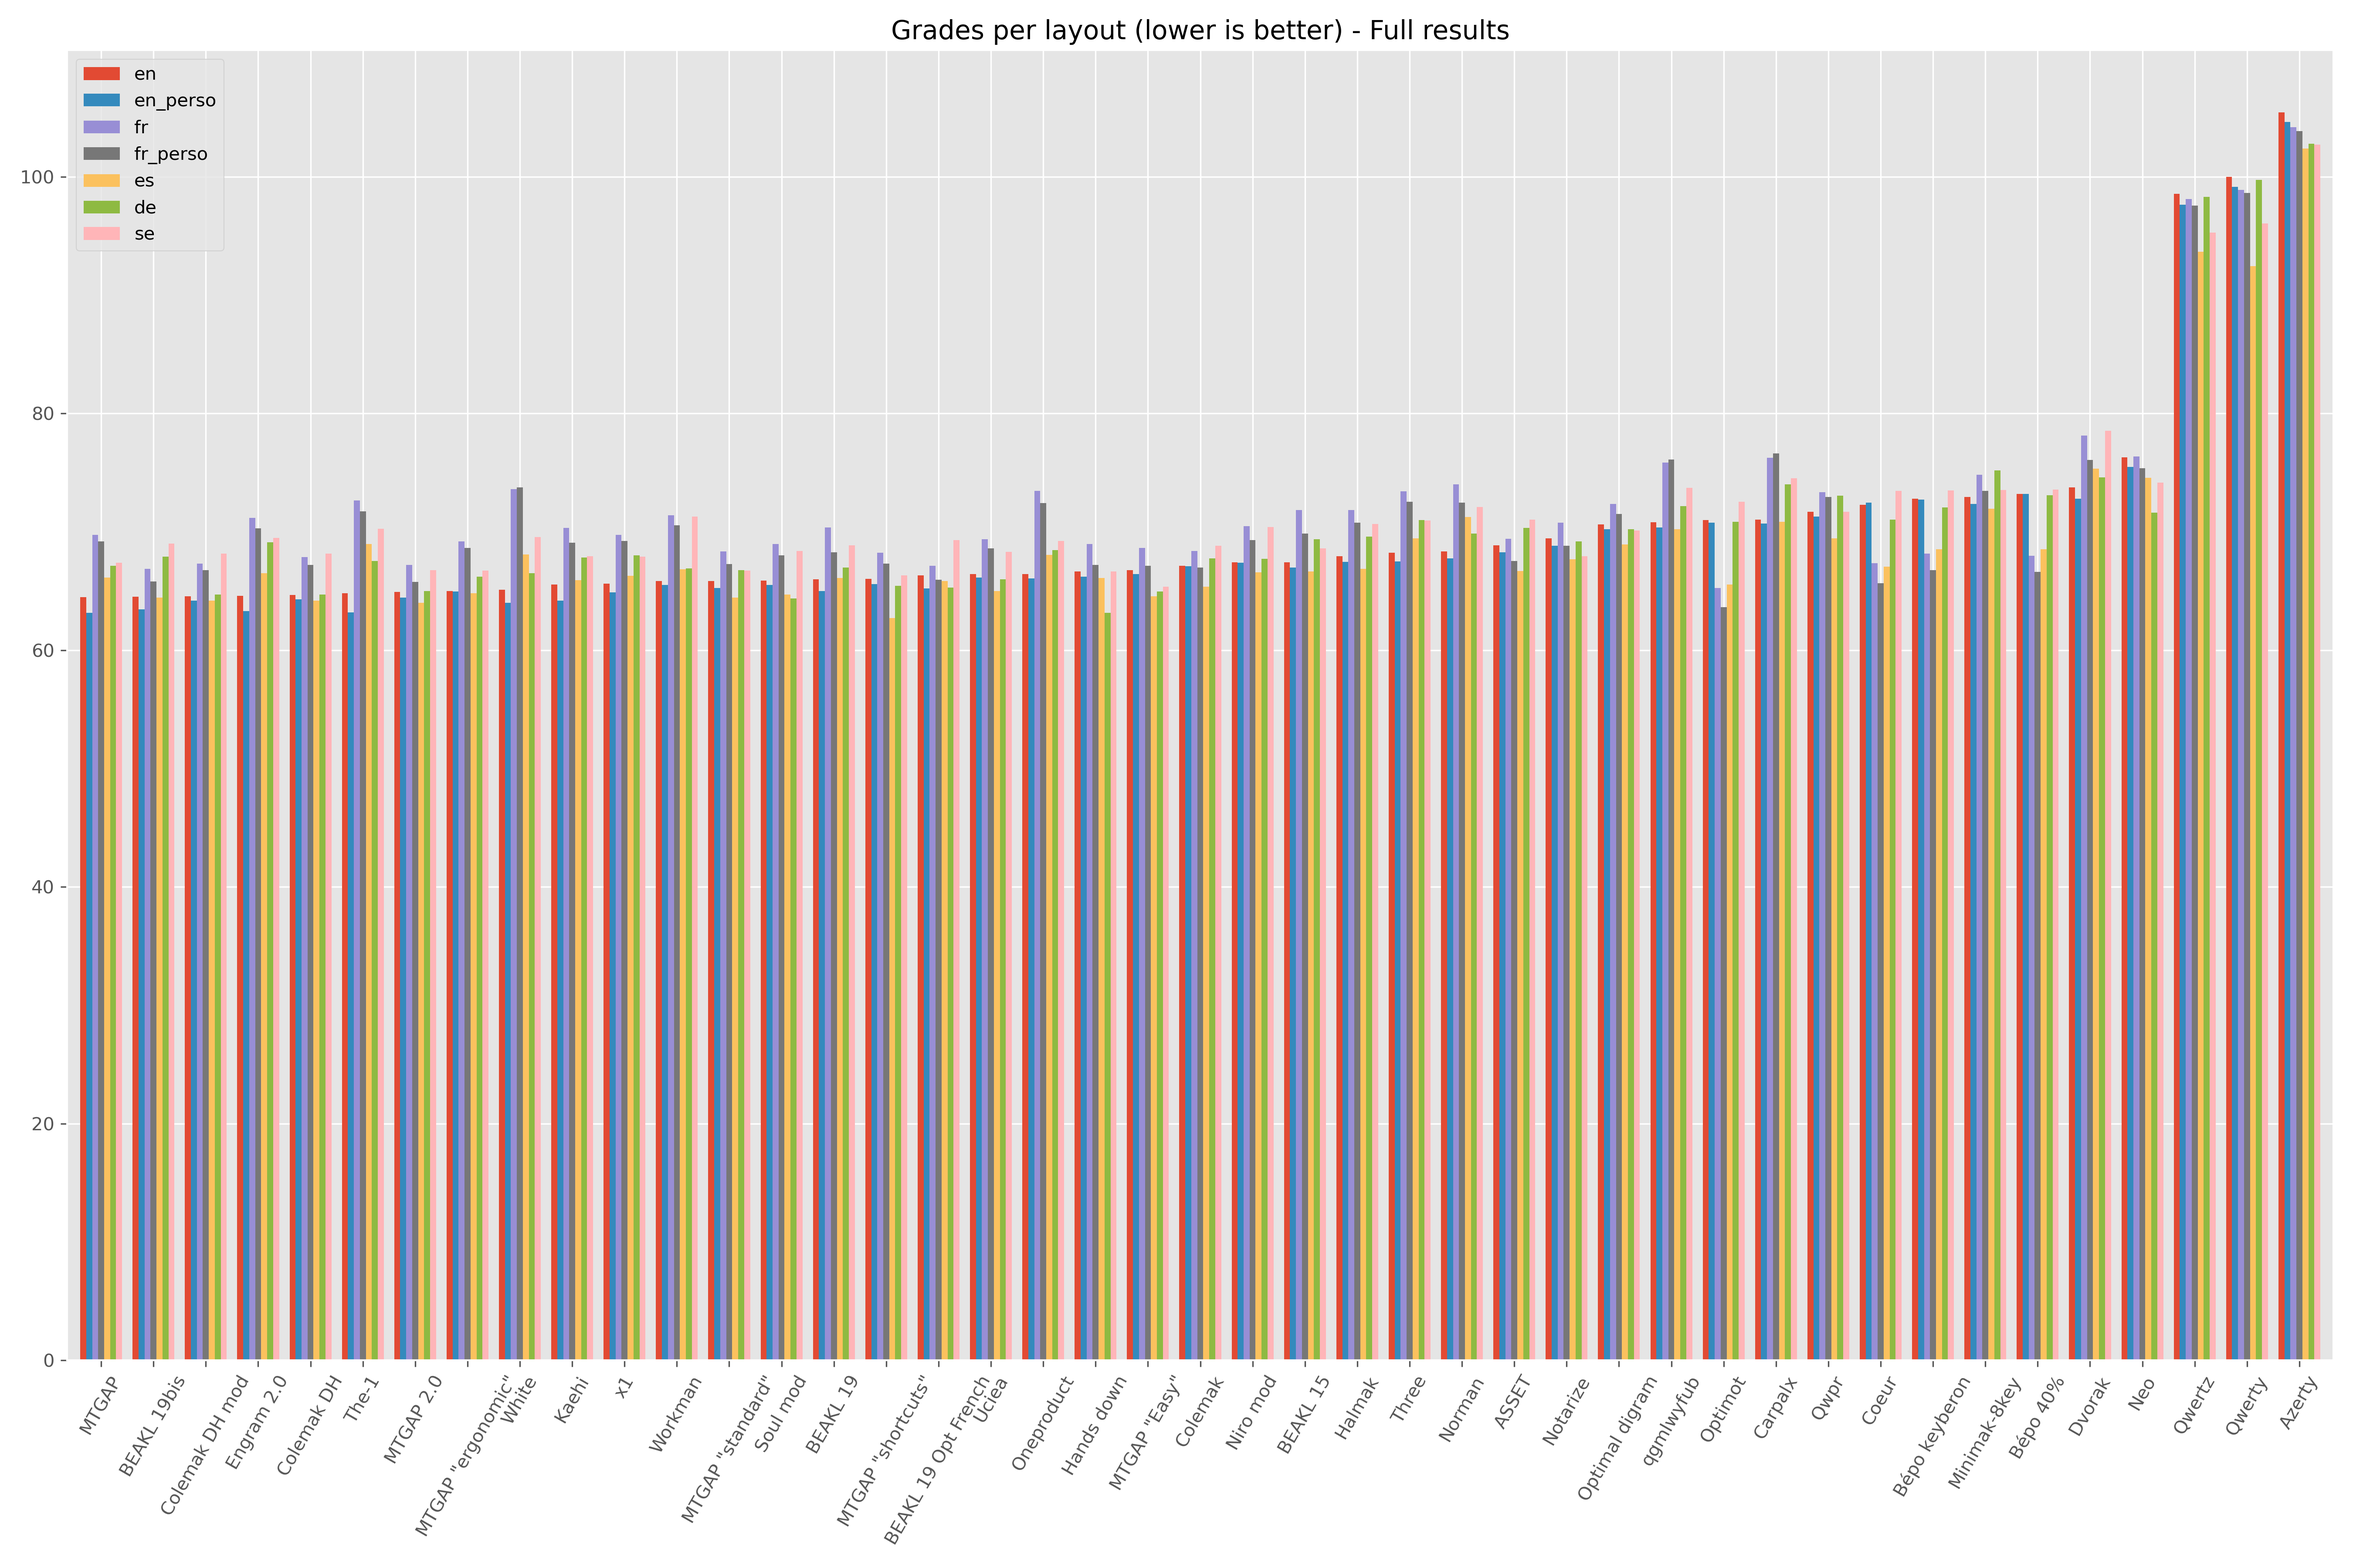
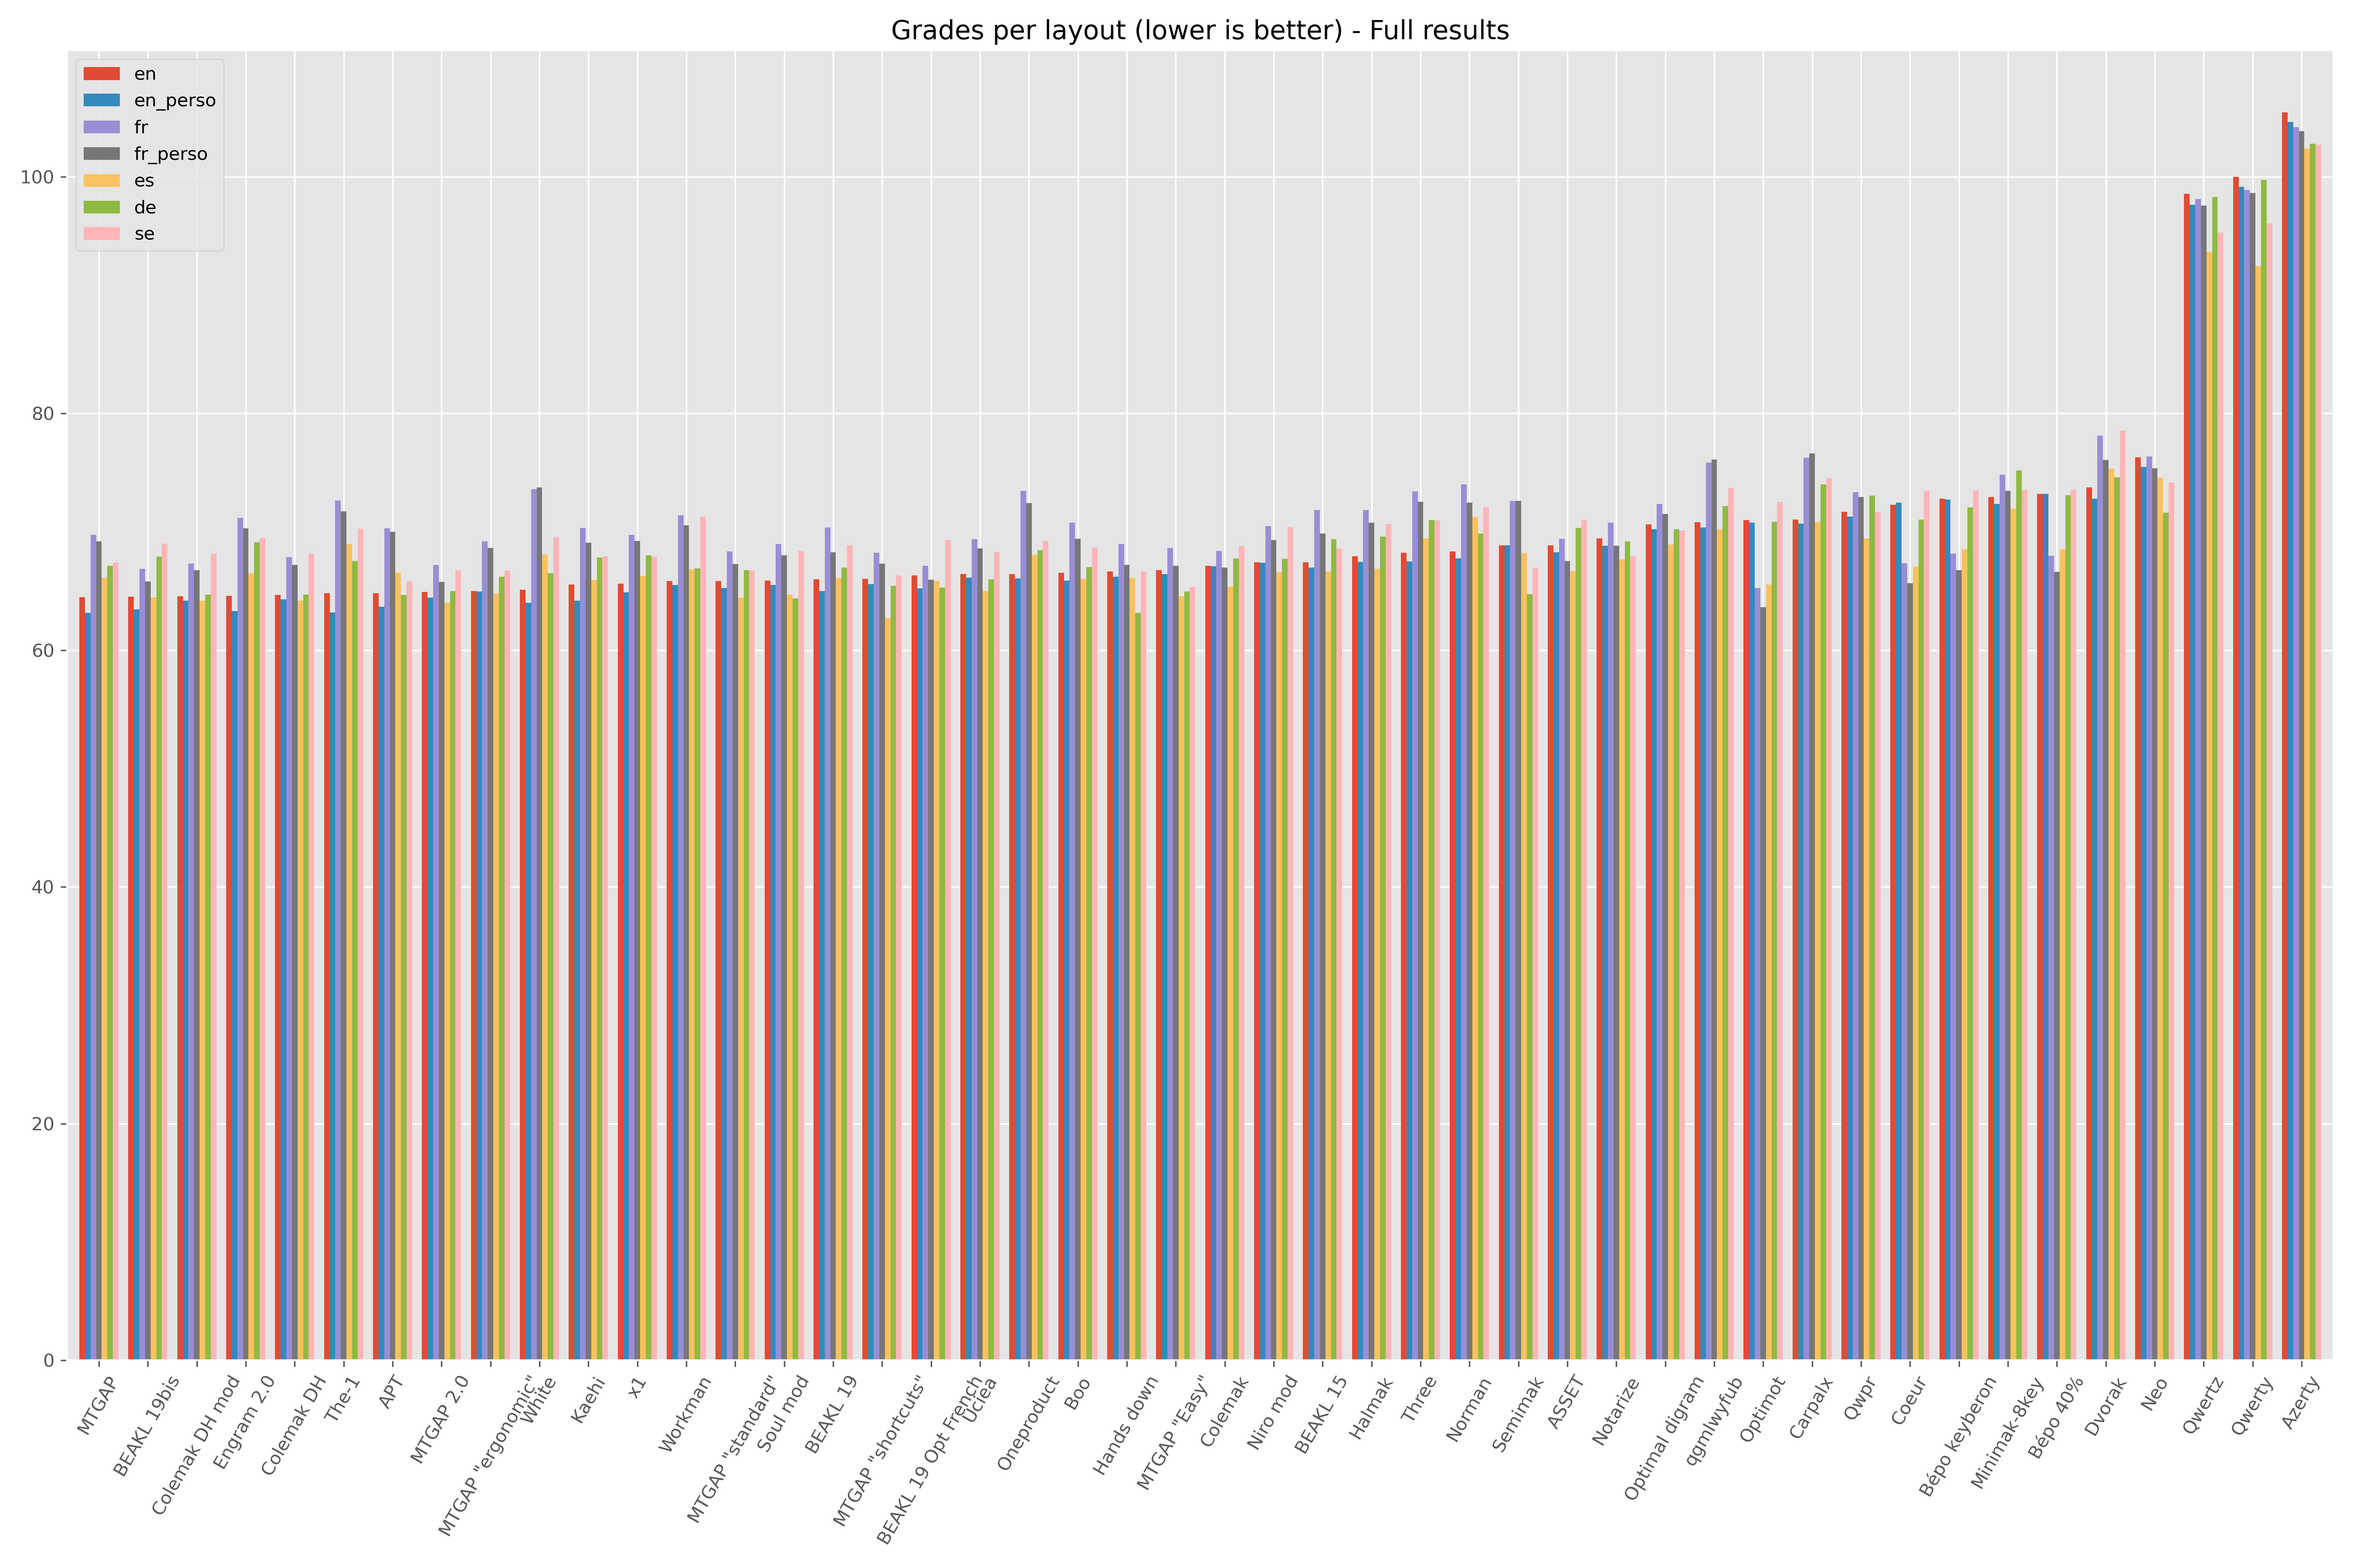
added layouts from #11

diff --git a/README.md b/README.md
@@ -224,6 +224,7 @@ Here is the complete results list. The layouts can be seen in `config.txt`.
 | [Engram 2.0](https://engram.dev/)                                                                                                             |   64.59 |         63.32 |  71.17 |        70.28 |   66.52 |  69.11 |   69.47 |
 | [Colemak DH](https://colemakmods.github.io/mod-dh/keyboards.html)                                                                             |   64.66 |         64.31 |  67.88 |        67.21 |   64.18 |  64.70 |   68.16 |
 | [The-1](https://docs.google.com/document/d/1yiCnIi1oagV1D8ZouMt-TRFRG8d6AfSBIwQkBvSflvY/edit)                                                 |   64.80 |         63.20 |  72.64 |        71.75 |   68.97 |  67.54 |   70.26 |
+| [APT](https://github.com/Apsu/APT)                                                                                                            |   64.81 |         63.69 |  70.29 |        70.02 |   66.56 |  64.68 |   65.86 |
 | [MTGAP 2.0](https://mathematicalmulticore.wordpress.com/2010/06/21/mtgaps-keyboard-layout-2-0/)                                               |   64.91 |         64.44 |  67.21 |        65.77 |   64.01 |  64.98 |   66.77 |
 | [MTGAP "ergonomic"](http://mtgap.bilfo.com/official_keyboard.html)                                                                            |   64.99 |         64.96 |  69.18 |        68.63 |   64.81 |  66.23 |   66.72 |
 | [White](https://github.com/mw8/white_keyboard_layout)                                                                                         |   65.10 |         64.00 |  73.60 |        73.76 |   68.09 |  66.50 |   69.55 |
@@ -237,6 +238,7 @@ Here is the complete results list. The layouts can be seen in `config.txt`.
 | [BEAKL 19 Opt French](https://www.reddit.com/r/ErgoMechKeyboards/comments/j1eopm/hands_down_layout_is_ready_for_daily_use/g7bjmr7/?context=3) |   66.32 |         65.23 |  67.12 |        65.96 |   65.85 |  65.31 |   69.32 |
 | [Uciea](https://keyboard-design.com/letterlayout.html?layout=uciea-keyboard.en.ansi)                                                          |   66.43 |         66.14 |  69.36 |        68.61 |   65.01 |  65.99 |   68.32 |
 | [Oneproduct](https://geekhack.org/index.php?topic=67604.0)                                                                                    |   66.44 |         66.07 |  73.48 |        72.44 |   68.07 |  68.45 |   69.22 |
+| [Boo](https://ballerboo.github.io/boolayout/)                                                                                                 |   66.54 |         65.87 |  70.78 |        69.42 |   66.04 |  67.03 |   68.68 |
 | [Hands down](https://sites.google.com/alanreiser.com/handsdown)                                                                               |   66.64 |         66.20 |  68.97 |        67.21 |   66.10 |  63.14 |   66.66 |
 | [MTGAP "Easy"](http://mtgap.bilfo.com/official_keyboard.html)                                                                                 |   66.78 |         66.44 |  68.63 |        67.15 |   64.55 |  64.97 |   65.35 |
 | [Colemak](https://colemak.com/)                                                                                                               |   67.15 |         67.08 |  68.40 |        67.00 |   65.37 |  67.77 |   68.82 |
@@ -245,6 +247,7 @@ Here is the complete results list. The layouts can be seen in `config.txt`.
 | [Halmak](https://github.com/MadRabbit/halmak)                                                                                                 |   67.94 |         67.45 |  71.84 |        70.78 |   66.87 |  69.60 |   70.68 |
 | [Three](https://github.com/jackrosenthal/threelayout)                                                                                         |   68.23 |         67.51 |  73.43 |        72.53 |   69.46 |  71.00 |   70.95 |
 | [Norman](https://normanlayout.info/)                                                                                                          |   68.34 |         67.74 |  74.01 |        72.48 |   71.24 |  69.86 |   72.10 |
+| [Semimak](https://semilin.github.io/semimak/)                                                                                                 |   68.85 |         68.87 |  72.62 |        72.63 |   68.21 |  64.74 |   66.94 |
 | [ASSET](http://millikeys.sourceforge.net/asset/)                                                                                              |   68.88 |         68.29 |  69.42 |        67.53 |   66.69 |  70.35 |   71.03 |
 | [Notarize](https://sites.google.com/alanreiser.com/handsdown)                                                                                 |   69.45 |         68.83 |  70.76 |        68.81 |   67.68 |  69.21 |   67.94 |
 | [Optimal digram](https://keyboard-design.com/letterlayout.html?layout=optimal-digram.en.ansi)                                                 |   70.64 |         70.21 |  72.36 |        71.53 |   68.94 |  70.21 |   70.11 |
